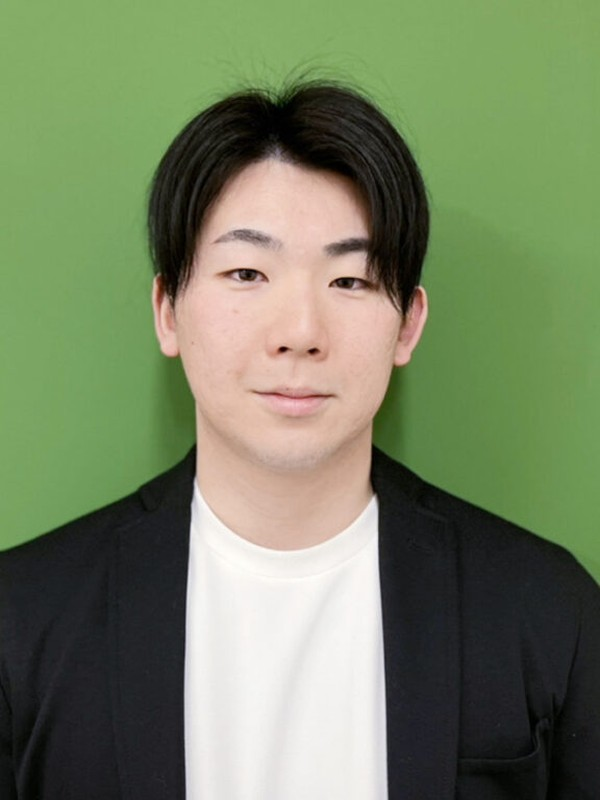
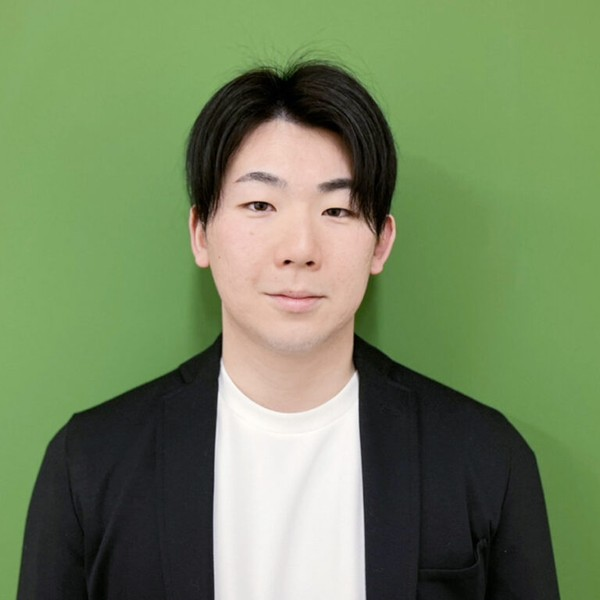
circle member design

diff --git a/index.html b/index.html
@@ -289,36 +289,39 @@
             </div>
             <div class="members-grid">
                 <!-- Member 1: 藤平勇太 -->
-                <div class="glass-card member-card js-fade-up">
-                    <div class="member-img-wrap">
+                <div class="member-card js-fade-up">
+                    <div class="member-circle">
                         <img src="member1.jpg" alt="藤平勇太" class="member-photo">
                     </div>
-                    <div class="member-info">
-                        <span class="member-role">広告戦略立案・予算管理</span>
-                        <h3 class="member-name">藤平 勇太</h3>
-                        <p class="member-comment">仕事の魅力は、逆境に立ち向かう力と、それに打ち勝ったときの達成感です。広告は必ずしも計画通りには進みません。計画をベースに予算を調整しますが、外的要因も重なり往々にして数値が前後します。要因を分析し軌道に乗せ直して目標値を達成できたときには、自信に繋がります。</p>
+                    <h3 class="member-name"><span class="member-title">Manager</span>　藤平 勇太</h3>
+                    <div class="member-divider"></div>
+                    <div class="member-detail">
+                        <p><span class="detail-label">担当業務：</span>広告戦略立案・予算管理</p>
+                        <p><span class="detail-label">仕事の魅力：</span>逆境に立ち向かう力と、それに打ち勝ったときの達成感です。広告は必ずしも計画通りには進みません。計画をベースに予算を調整しますが、外的要因も重なり往々にして数値が前後します。要因を分析し軌道に乗せ直して目標値を達成できたときには、自信に繋がります。</p>
                     </div>
                 </div>
                 <!-- Member 2: 藤平誠太 -->
-                <div class="glass-card member-card js-fade-up">
-                    <div class="member-img-wrap">
+                <div class="member-card js-fade-up">
+                    <div class="member-circle">
                         <img src="member2.jpg" alt="藤平誠太" class="member-photo">
                     </div>
-                    <div class="member-info">
-                        <span class="member-role">事業開発担当</span>
-                        <h3 class="member-name">藤平 誠太</h3>
-                        <p class="member-comment">弊社では良い意味で行ってはダメな事などは有りません。各々の判断で最善の選択をしプロジェクトを成功させるべく行動できます。裁量、責任をもってお仕事できますし、己の判断でプロジェクトを成功させた時は何よりも達成感があります。</p>
+                    <h3 class="member-name"><span class="member-title">Manager</span>　藤平 誠太</h3>
+                    <div class="member-divider"></div>
+                    <div class="member-detail">
+                        <p><span class="detail-label">担当業務：</span>事業開発担当</p>
+                        <p><span class="detail-label">仕事の魅力：</span>弊社では良い意味で行ってはダメな事などは有りません。各々の判断で最善の選択をしプロジェクトを成功させるべく行動できます。裁量、責任をもってお仕事できますし、己の判断でプロジェクトを成功させた時は何よりも達成感があります。</p>
                     </div>
                 </div>
                 <!-- Member 3: 青木友也 -->
-                <div class="glass-card member-card js-fade-up">
-                    <div class="member-img-wrap">
+                <div class="member-card js-fade-up">
+                    <div class="member-circle">
                         <img src="member3.jpg" alt="青木友也" class="member-photo">
                     </div>
-                    <div class="member-info">
-                        <span class="member-role">提携代理店開拓及び管理</span>
-                        <h3 class="member-name">青木 友也</h3>
-                        <p class="member-comment">私は、自分で目標設定を行った数値を実現させる過程にやりがいを感じるタイプです。そのため自発的に動くことを心がけています。10回チャレンジし仮に結果に繋がったのが1回だとしても、やりきったという大きな達成感を感じることが出来るからです。ある程度の裁量を任せて頂けるSAIの働き方は非常に魅力的に思います。</p>
+                    <h3 class="member-name"><span class="member-title">Manager</span>　青木 友也</h3>
+                    <div class="member-divider"></div>
+                    <div class="member-detail">
+                        <p><span class="detail-label">担当業務：</span>提携代理店開拓及び管理</p>
+                        <p><span class="detail-label">仕事の魅力：</span>私は、自分で目標設定を行った数値を実現させる過程にやりがいを感じるタイプです。そのため自発的に動くことを心がけています。10回チャレンジし仮に結果に繋がったのが1回だとしても、やりきったという大きな達成感を感じることが出来るからです。ある程度の裁量を任せて頂けるSAIの働き方は非常に魅力的に思います。</p>
                     </div>
                 </div>
             </div>

diff --git a/style-v2.css b/style-v2.css
@@ -1247,38 +1247,83 @@ html, body {
 
 
 
+
+
+
 /* ============================================================
-   メンバー写真（バストアップ・実写対応）
+   メンバー紹介（円形写真・3カラム）
    ============================================================ */
-.member-img-wrap {
-    width: 100%;
-    max-width: 260px;
-    aspect-ratio: 3 / 4;
-    border-radius: 12px;
+.members-grid {
+    display: grid;
+    grid-template-columns: repeat(3, 1fr);
+    gap: 2.5rem;
+    margin-top: 3rem;
+    align-items: start;
+}
+.member-card {
+    background: transparent;
+    border: none;
+    padding: 0;
+    text-align: center;
+    display: flex;
+    flex-direction: column;
+    align-items: center;
+}
+.member-circle {
+    width: 220px;
+    height: 220px;
+    border-radius: 50%;
     overflow: hidden;
     margin-bottom: 1.5rem;
-    border: 1px solid var(--glass-border);
-    box-shadow: 0 8px 24px rgba(0,0,0,0.08);
+    box-shadow: 0 10px 30px rgba(0,0,0,0.1);
 }
-.member-photo {
+.member-circle .member-photo {
     width: 100%;
     height: 100%;
     object-fit: cover;
     object-position: center top;
     display: block;
 }
-
-/* コメントが長いので左寄せで読みやすく */
-.member-card .member-comment {
+.member-name {
+    font-size: 1.3rem;
+    font-weight: 700;
+    color: var(--text-main);
+    margin-bottom: 1rem;
+}
+.member-name .member-title {
+    color: var(--neon-blue);
+    font-family: 'Inter', sans-serif;
+    font-weight: 700;
+}
+.member-divider {
+    width: 100%;
+    height: 1px;
+    background: rgba(0,0,0,0.12);
+    margin-bottom: 1.2rem;
+}
+.member-detail {
     text-align: left;
+    width: 100%;
+}
+.member-detail p {
     font-size: 0.85rem;
-    line-height: 1.7;
+    line-height: 1.8;
+    color: var(--text-muted);
+    margin-bottom: 0.6rem;
+}
+.member-detail .detail-label {
+    font-weight: 700;
+    color: var(--text-main);
 }
 
-/* メンバーカードを上揃えに（コメント量が違うため） */
-.members-grid {
-    align-items: stretch;
+/* タブレット（2カラム） */
+@media (min-width: 768px) and (max-width: 1024px) {
+    .members-grid { grid-template-columns: repeat(2, 1fr); gap: 2rem; }
 }
-.member-card {
-    justify-content: flex-start;
+
+/* スマホ（1カラム） */
+@media (max-width: 767px) {
+    .members-grid { grid-template-columns: 1fr !important; gap: 2.5rem !important; }
+    .member-circle { width: 200px !important; height: 200px !important; }
+    .member-detail { max-width: 400px; margin: 0 auto; }
 }
